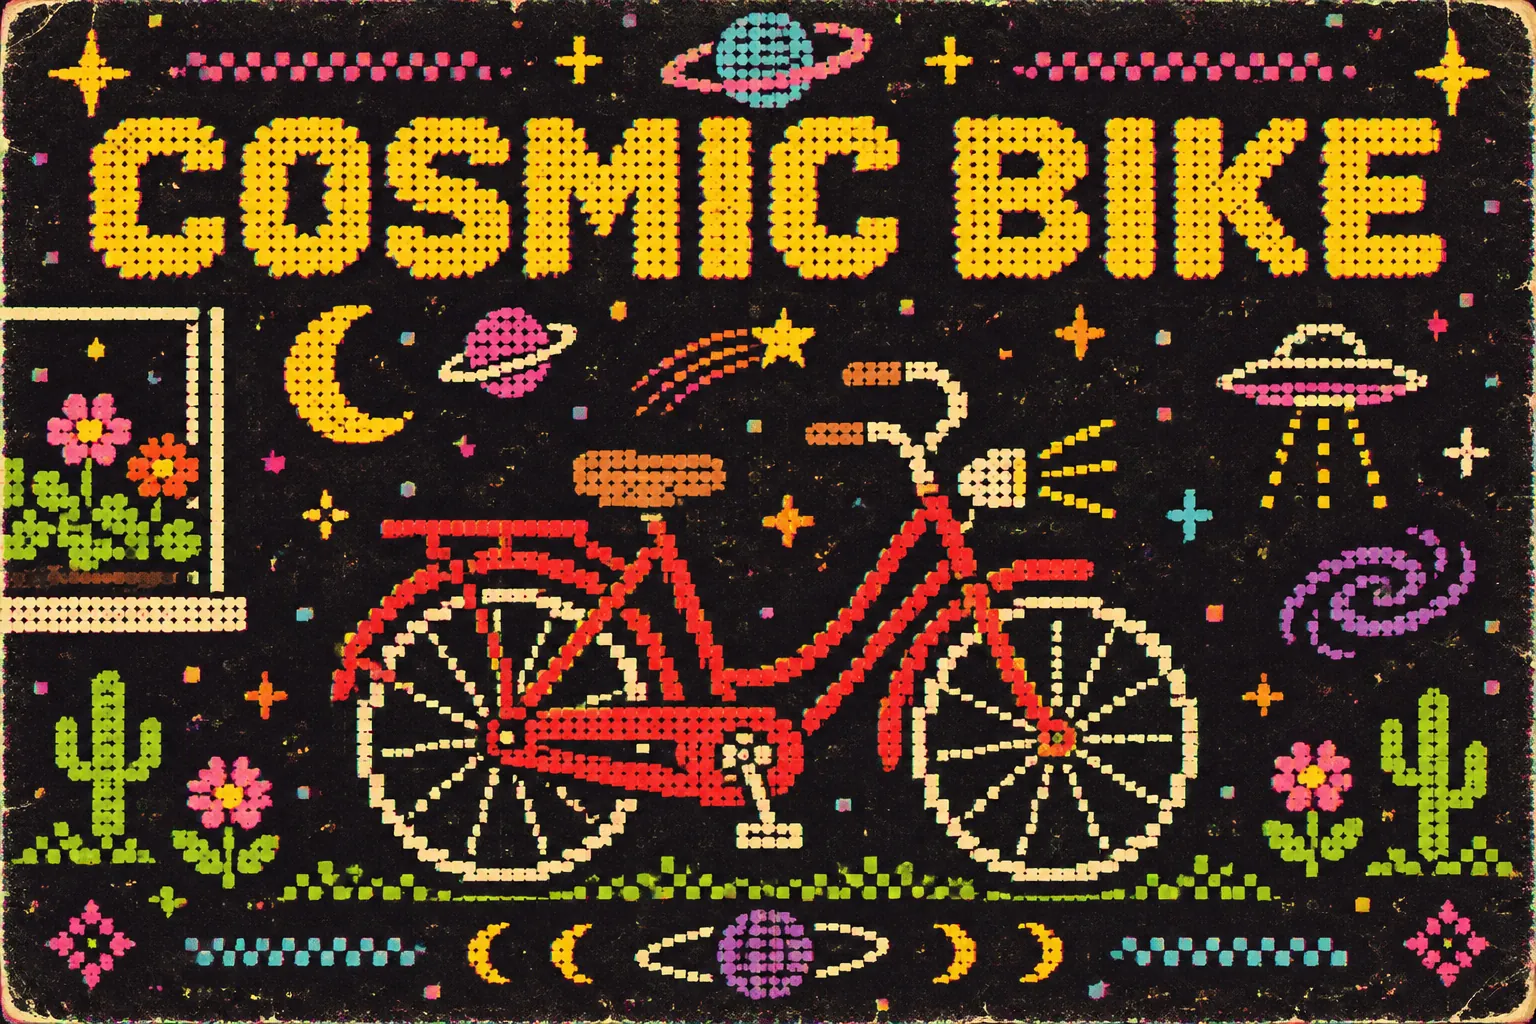
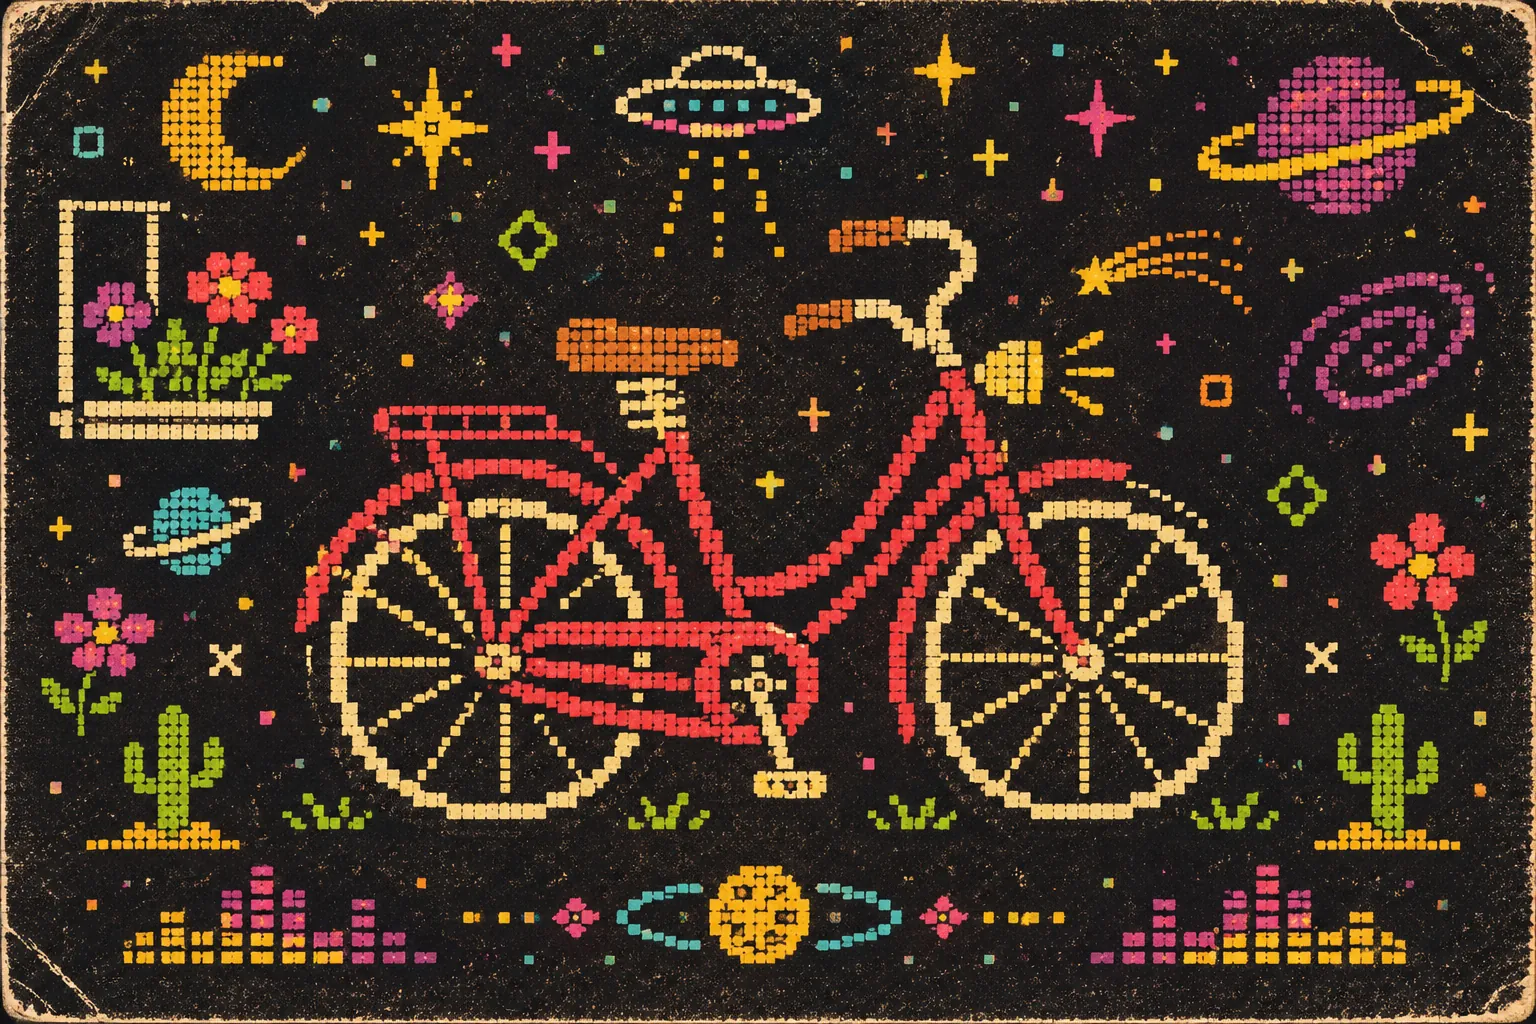
feat(image-style): remove title from cosmic-pixel-poster

diff --git a/image-style/styles/cosmic-pixel-poster/STYLE.md b/image-style/styles/cosmic-pixel-poster/STYLE.md
@@ -1,10 +1,8 @@
 # Cosmic Pixel Poster
 
-An image reinterpreted as a retro event flyer in low-resolution LED dot-matrix pixels, with a large golden title on a dark cosmic background.
+An image reinterpreted as a retro event flyer in low-resolution LED dot-matrix pixels on a dark cosmic background, with no title.
 
 ## Prompt
-
-Replace the title placeholder with the user's title. If the user gave none, ask for one.
 
 ```text
 [Instruction]
@@ -12,11 +10,7 @@ Transform the uploaded reference image into a retro cosmic pixel-art event poste
 
 Use the uploaded image only as the main visual/theme reference. Reinterpret the subject, mood, colors, and key shapes from the image as simplified pixel-art symbols, icons, and decorative motifs. Do not create a realistic illustration. Do not preserve photographic details. Convert everything into a playful, abstract, cosmic, low-resolution poster style.
 
-Place the main title text at the top:
-
-"Enter the top title text here"
-
-The title should be large, bold, blocky, and pixelated, using a retro dot-matrix / bitmap font style. The title should feel like it was drawn with small square pixels or LED dots, slightly imperfect and nostalgic.
+Do not place a title at the top.
 
 [Overall Style]
 A retro event poster with a black or very dark charcoal background, filled with colorful tiny pixel stars, confetti dots, geometric shapes, small squares, rings, crosses, diamonds, moons, flowers, planets, UFO-like symbols, cactus-like silhouettes, and playful space-age icons.
@@ -30,8 +24,7 @@ The poster should feel like a mix of:
 
 [Composition]
 Poster layout.
-Large title area at the top, occupying about 25–35% of the poster height.
-Below the title, arrange several small pixel-art icon sections inspired by the uploaded image.
+Arrange several small pixel-art icon sections inspired by the uploaded image.
 Use the uploaded image's main subject as the central inspiration, but simplify it into pixel symbols and decorative motifs.
 Create a balanced layout with open spacing, not too crowded, but filled with small colorful pixel elements across the dark background.
 
@@ -39,19 +32,13 @@ If the uploaded image contains a person, animal, object, product, food, landscap
 For example: turn shapes into small icons, outlines, simplified silhouettes, glowing symbols, colorful pixel clusters, or retro cosmic emblems.
 
 [Typography]
-Top title:
-Large yellow or warm golden pixelated text.
-Chunky bitmap-style letterforms.
-Slightly uneven dot texture, like old printed pixels or an LED display.
-Readable but intentionally retro and low-resolution.
-
 Optional small subtitle/event text areas can appear lower on the poster, but keep them minimal and decorative.
 Do not add random readable text unless provided.
 If additional text is needed, use tiny abstract pixel-like marks, not actual words.
 
 [Color Palette]
 Dark black / charcoal background.
-Main text in warm yellow, golden yellow, or muted neon yellow.
+Warm yellow, golden yellow, or muted neon yellow as a main color.
 Accent colors: magenta, violet, cyan, lime green, orange, muted red, soft blue.
 Use small colorful speckles and pixel confetti throughout.
 Colors should feel slightly faded and printed, not glossy modern neon.
@@ -85,7 +72,7 @@ The poster should feel like a physical printed flyer photographed in a book or z
 Same aspect ratio as the attached image.
 High detail pixel-art texture.
 Low-resolution aesthetic, but high-quality final image.
-Sharp enough to read the title, but with intentionally rough pixel edges.
+Sharp overall, but with intentionally rough pixel edges.
 Retro underground music poster mood.
 Cosmic playful atmosphere.
 Dark background with colorful pixel decorations.
@@ -103,7 +90,6 @@ No comic book style.
 No cyberpunk city.
 No excessive text.
 No random English words.
-No illegible title.
 No clean sans-serif font.
 No realistic photography.
 No overly detailed illustration.
@@ -115,14 +101,13 @@ No modern EDM festival poster style.
 
 ## Observed in references
 
-The user's original reference images aren't stored. They showed these traits, which the prompt doesn't state. Add the ones you want to the image prompt.
+The user's original reference images aren't stored. They showed these traits, which the prompt doesn't state. Add the ones you want to the image prompt. The references also have a large top title, which this style removes by the user's choice.
 
 - **Subject:** the main subject stays large, central, and recognizable as one pixel illustration, even though the prompt asks for symbolic icons. Its pose and key details carry over from the source.
 - **Scene:** the source setting turns cosmic, such as a daytime window becoming a starry night city, and objects gain stars or glitter.
-- **Title:** a short two-line title in all caps pairs a cosmic word with the subject.
 - **Layout:** repeated motifs from the source fill the margins, sometimes with thin dotted frames and small inset panels.
 - **Source text:** logos and text in the source are dropped.
 
 ## Examples
 
-- [bicycle.webp](examples/bicycle.webp): conversion of a generated photo of a red bicycle against a wall, with the title "COSMIC BIKE", made with `gpt-image` from the prompt above. It matches the references' golden title, large central subject, and cosmic motifs. It keeps the source's 3:2 ratio, and its title fits on one line. Its worn poster edges and creases are heavier than the references, and its pixels look more like cross-stitch.
+- [bicycle.webp](examples/bicycle.webp): conversion of a generated photo of a red bicycle against a wall, made with `gpt-image` from the prompt above. It has no title, keeps the source's 3:2 ratio, and matches the references' large central subject and cosmic motifs. Its worn poster edges and creases are heavier than the references, and its pixels look more like cross-stitch.

diff --git a/image-style/SKILL.md b/image-style/SKILL.md
@@ -14,7 +14,7 @@ A library of concrete styles for converting existing images. Each style keeps a 
 | [crayon-kid-drawing](styles/crayon-kid-drawing/STYLE.md) | Clumsy kindergarten crayon drawing with rough primary colors | Turning photos into playful, naive drawings |
 | [geometric-symbol-print](styles/geometric-symbol-print/STYLE.md) | Abstract geometric symbol in flat, grainy inks on warm paper with fine construction lines | Turning photos into minimal design prints |
 | [palette-knife-impasto](styles/palette-knife-impasto/STYLE.md) | Thick palette-knife oil paint in relief on warm cream paper | Turning photos of a single subject into miniature paintings |
-| [cosmic-pixel-poster](styles/cosmic-pixel-poster/STYLE.md) | Retro dot-matrix pixel flyer with a golden title on a dark cosmic background | Turning images into titled event-style posters |
+| [cosmic-pixel-poster](styles/cosmic-pixel-poster/STYLE.md) | Retro dot-matrix pixel flyer on a dark cosmic background | Turning images into cosmic event-style posters |
 | [photo-fragment-collage](styles/photo-fragment-collage/STYLE.md) | One photo split into six crops in an aligned grid on pale paper | Turning a photo into a calm magazine-style collage poster |
 | [colored-pencil-sketch](styles/colored-pencil-sketch/STYLE.md) | Loose layered colored pencil strokes that scatter into white paper | Turning photos into relaxed travel-sketchbook drawings |
 | [gouache-marker-illustration](styles/gouache-marker-illustration/STYLE.md) | Cute flat gouache and marker illustration with thick wobbly outlines on cream | Turning photos into simple, friendly illustrations |
